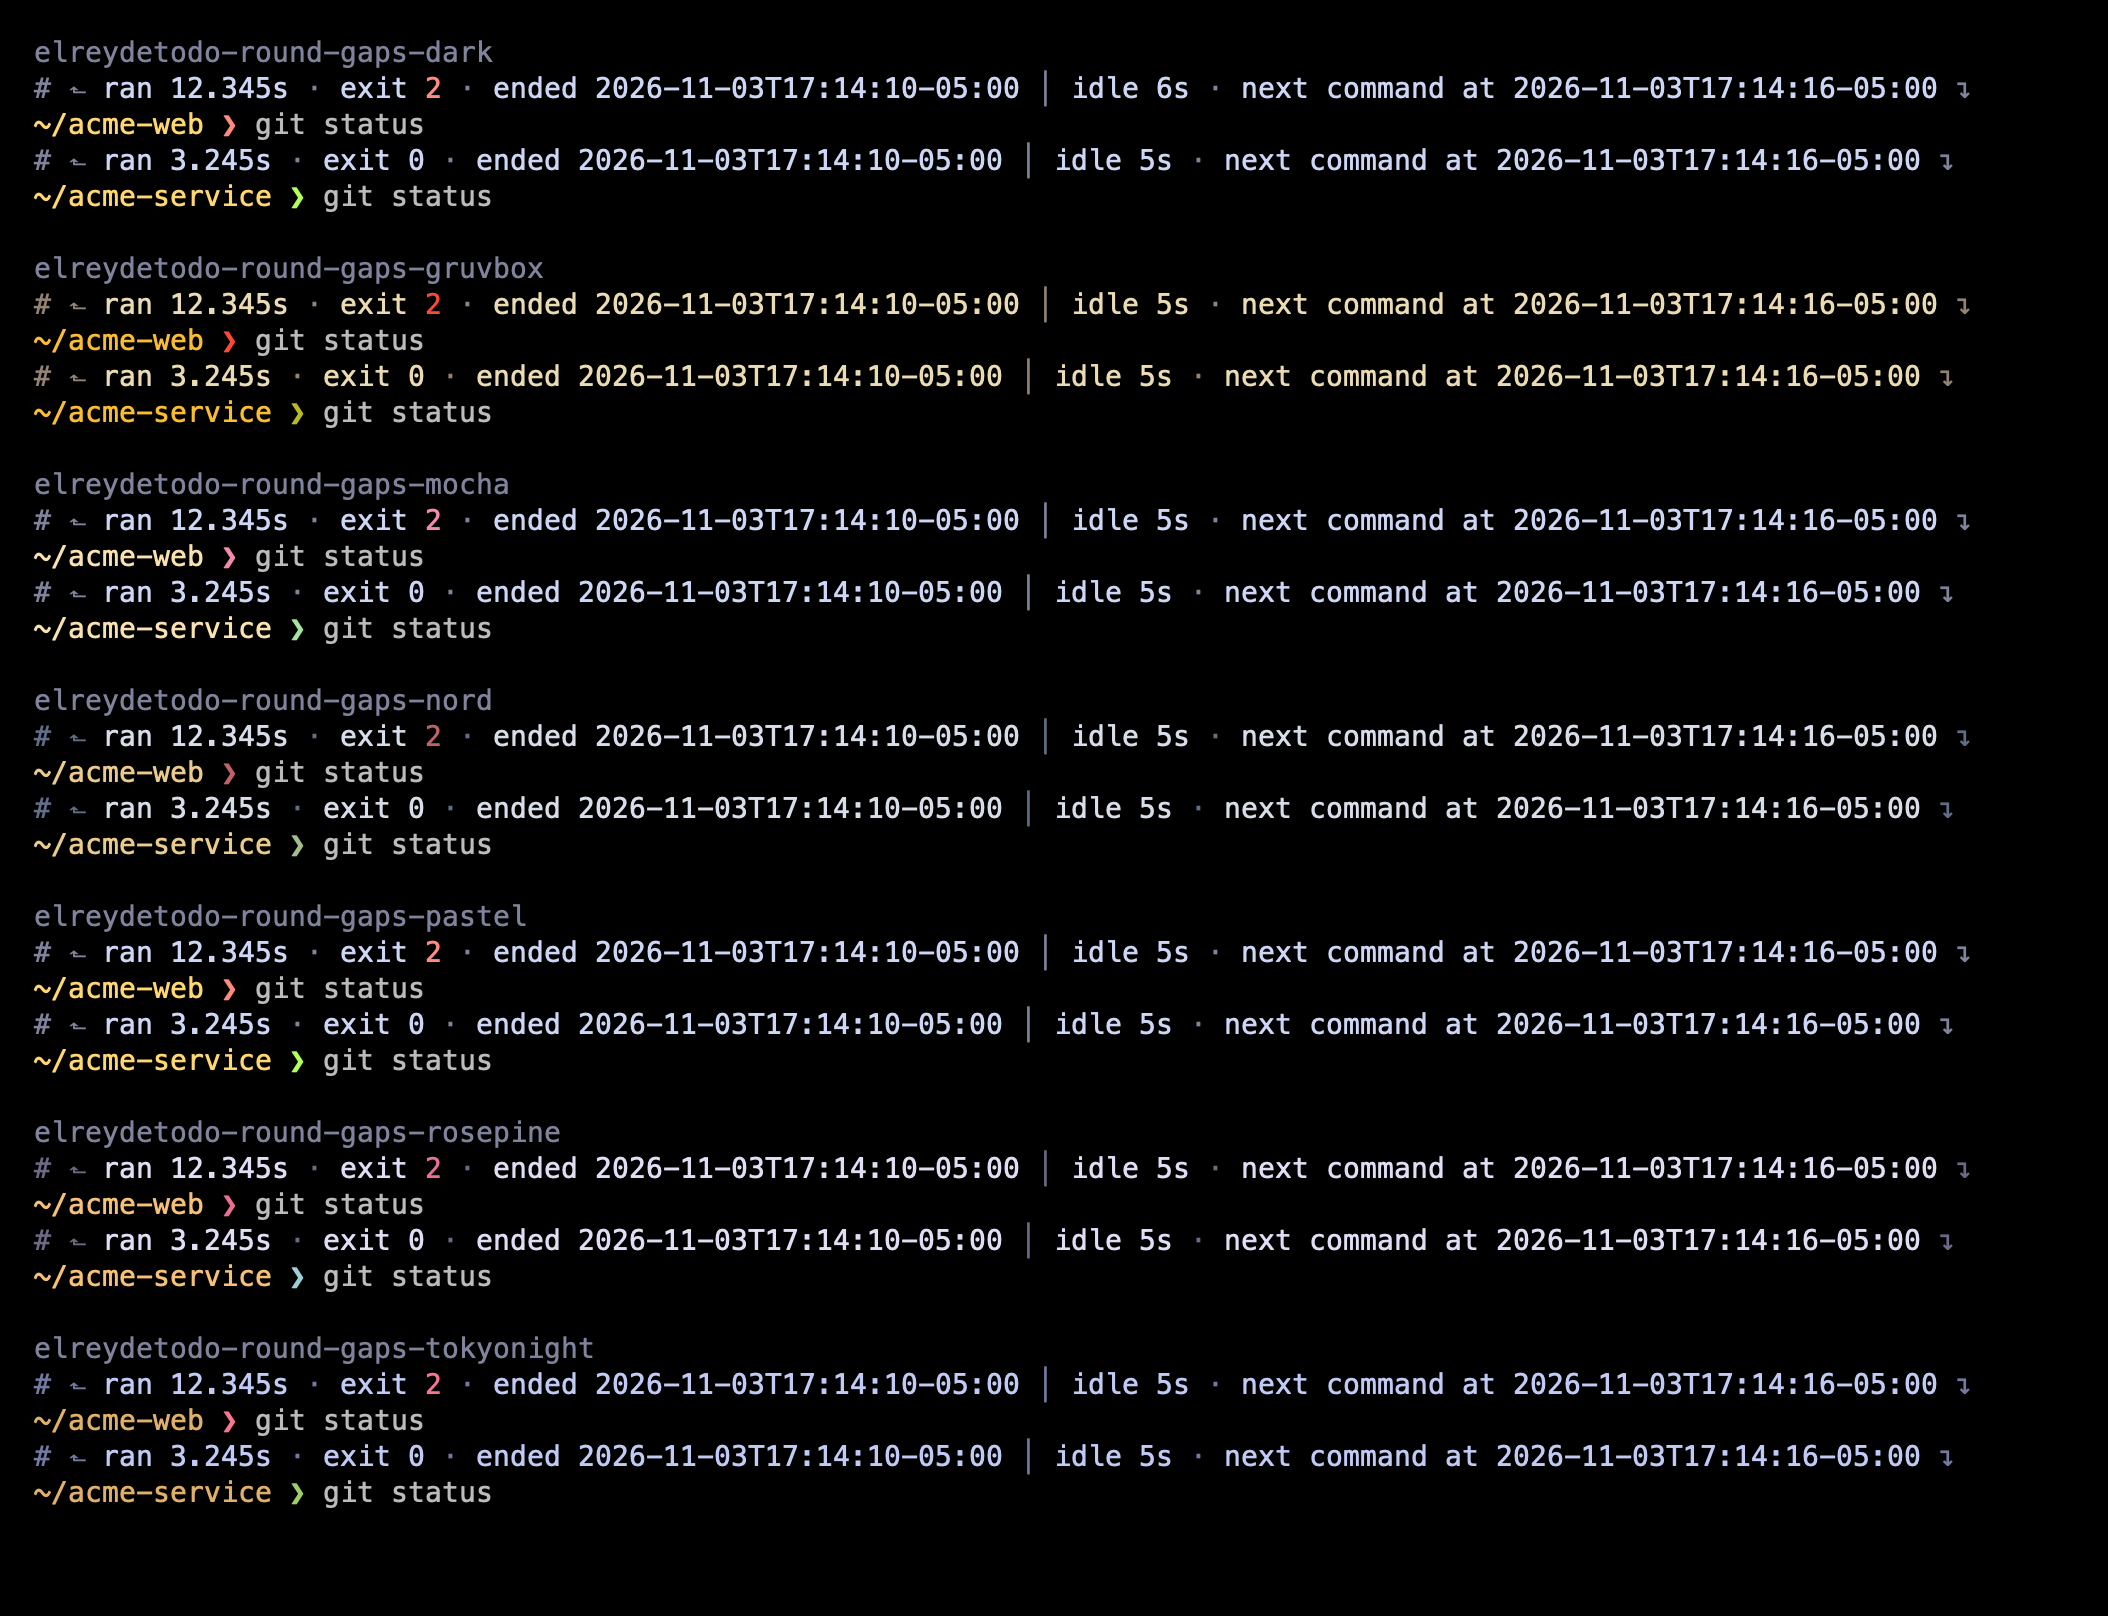
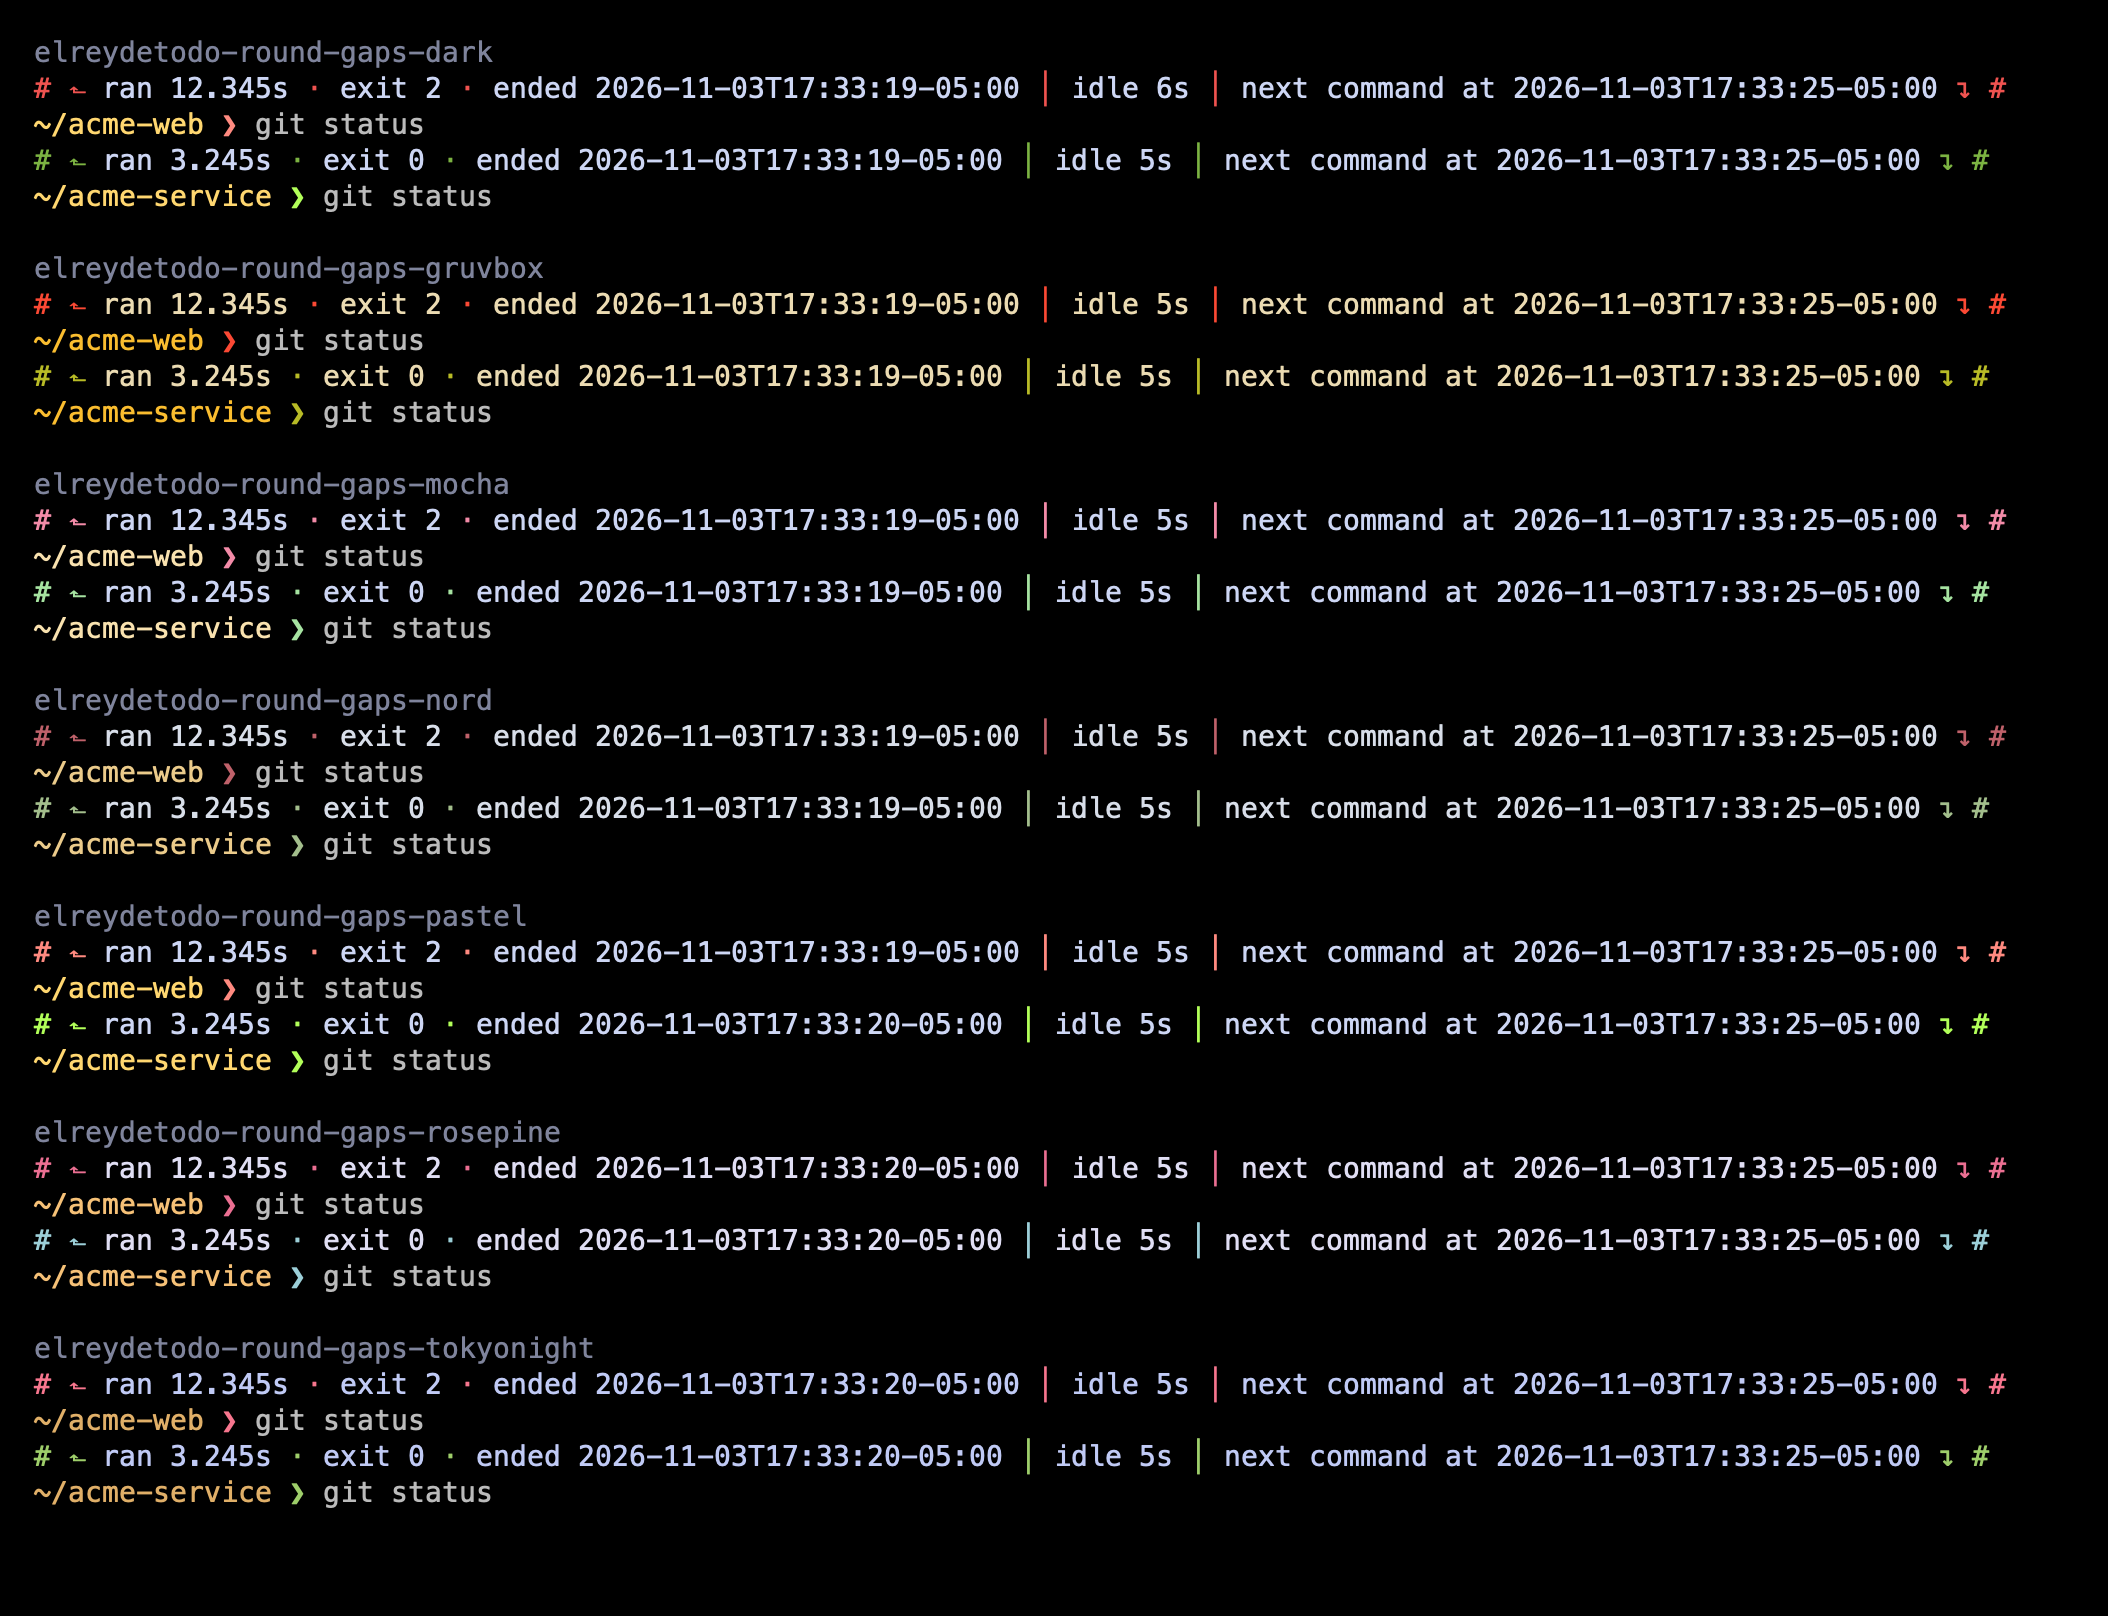
Color the committed line's anchors by the command's outcome
The committed line was easy to miss in scrollback. Its separators were a
dim gray, and only a failed exit code stood out, in red.

The line now has a # at each end, and its three segments are split by
two │: the command above, the idle time, and the command below. The ·
between the idle time and the next command became the second │.

All the anchors and separators (#, ⬑, ·, │, ↴) take one color, the
outcome of the command above. They are green after success, red after
failure, and blue when there was no command, as in the live prompt's
first pill. They use the ink-* colors, because a color set's pill colors
can be too dark to read as text. All other text is one plain color, so
the exit code is no longer red on its own.

DESIGN.md also records why right alignment was left out. The transient
right_template becomes zsh's RPROMPT, which sits on the command line, and
passing the width through an exported variable was not worth the hook.

diff --git a/oh-my-posh/DESIGN.md b/oh-my-posh/DESIGN.md
@@ -71,18 +71,26 @@ so.
 Pressing Enter rewrites both lines into two new ones:
 
 ```
-# ⬑ ran 3.245s · exit 0 · ended 2026-11-03T14:03:07-05:00 │ idle 41s · next command at 2026-11-03T14:03:48-05:00 ↴
+# ⬑ ran 3.245s · exit 0 · ended 2026-11-03T14:03:07-05:00 │ idle 41s │ next command at 2026-11-03T14:03:48-05:00 ↴ #
 ~/src/shell-scripts ❯ git status
 ```
 
-The first line is a shell comment, so pasting it into a shell does nothing. Everything left of the
-`│` describes the command above it. Everything right of it describes the command below it.
+The first line is a shell comment, so pasting it into a shell does nothing. A `#` at each end
+frames it, and two `│` split it into three segments:
 
-- `ran`, `exit`, and `ended` repeat the previous-command facts from the live prompt.
-- `idle` is the time the prompt waited for input. It is the moment Enter was pressed minus the
-  moment the prompt arrived.
-- `next command at` is the moment Enter was pressed.
-- `↴` sits at the end of the line and points down at the command.
+1. The command above: `ran`, `exit`, and `ended` repeat the previous-command facts from the live
+   prompt, separated by `·`.
+2. `idle` is the time the prompt waited for input. It is the moment Enter was pressed minus the
+   moment the prompt arrived.
+3. `next command at` is the moment Enter was pressed. It describes the command below.
+
+`↴` sits just before the closing `#` and points down at the command.
+
+The anchors and separators, `#`, `⬑`, `·`, `│`, and `↴`, all take one color. It is the outcome of
+the command above: green after success, red after failure, and blue when there was no command, as
+in the live prompt's first pill. They use the color set's `ink-*` colors, because its pill colors
+can be too dark to read as text. All the other text on the line is one plain color. The colored
+anchors make the line easy to find in scrollback, and they repeat the exit status at a glance.
 
 The second line is the input line exactly as it was typed, with the same path and lead-in as the
 live prompt. Git and tooling information MUST NOT appear in the committed prompt.
@@ -93,12 +101,13 @@ ends, or other Nerd Font private-use characters, because those paste as junk out
 
 Four cases change the first line:
 
-- **First prompt of a session.** `.PromptCount` is 1. The left half reads `new session at <time>`.
-- **Enter on an empty line.** `.Executed` is false and `.PromptCount` is above 1. The left half
-  reads `no command · prompt at <time>`.
-- **Failure.** A nonzero exit status is shown in red. The wording does not change.
-- **Cancelled input.** When Ctrl-C abandons the line being typed, `.Interrupted` is true. The right
-  half reads `cancelled at <time>` instead of `next command at <time>`.
+- **First prompt of a session.** `.PromptCount` is 1. The first segment reads
+  `new session at <time>`, and the anchors are blue.
+- **Enter on an empty line.** `.Executed` is false and `.PromptCount` is above 1. The first segment
+  reads `no command · prompt at <time>`, and the anchors are blue.
+- **Failure.** The anchors are red. The wording does not change.
+- **Cancelled input.** When Ctrl-C abandons the line being typed, `.Interrupted` is true. The last
+  segment reads `cancelled at <time>` instead of `next command at <time>`.
 
 ### How idle time is computed
 
@@ -220,4 +229,8 @@ off.
 - Any marker on continuation lines. zsh offers no way to remove such a marker after the command
   is submitted.
 - Right alignment on the committed prompt. The transient template cannot see the terminal width,
-  and the padding would be copied along with the line.
+  and the padding would be copied along with the line. The transient `right_template` becomes
+  zsh's `RPROMPT`, which zsh draws on the last line of a prompt, so it would sit beside the typed
+  command instead. Passing the width in through an exported variable would work, but it was judged
+  not worth the extra shell hook. Right-aligned text also stays where it was drawn when the
+  terminal is resized.
